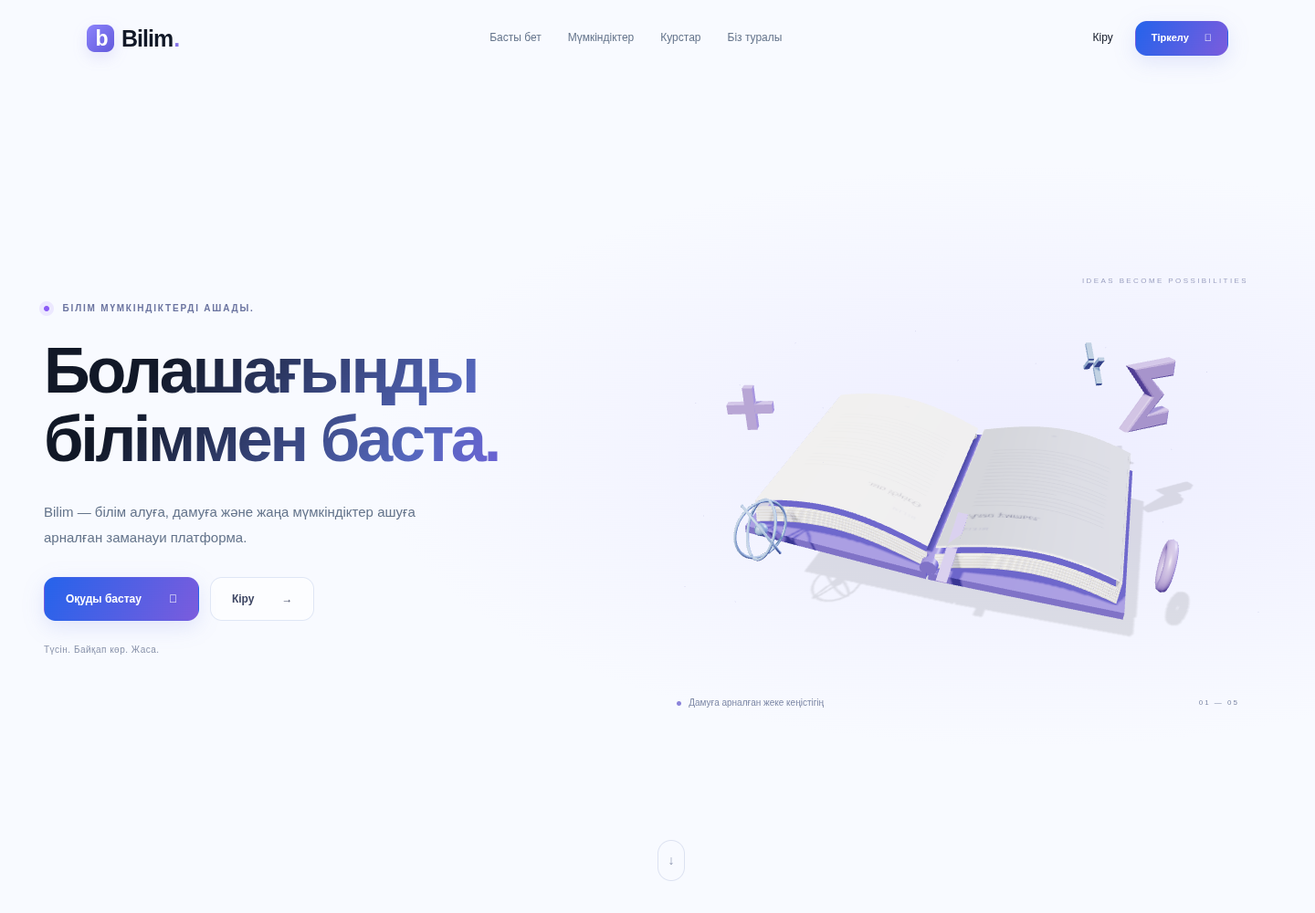
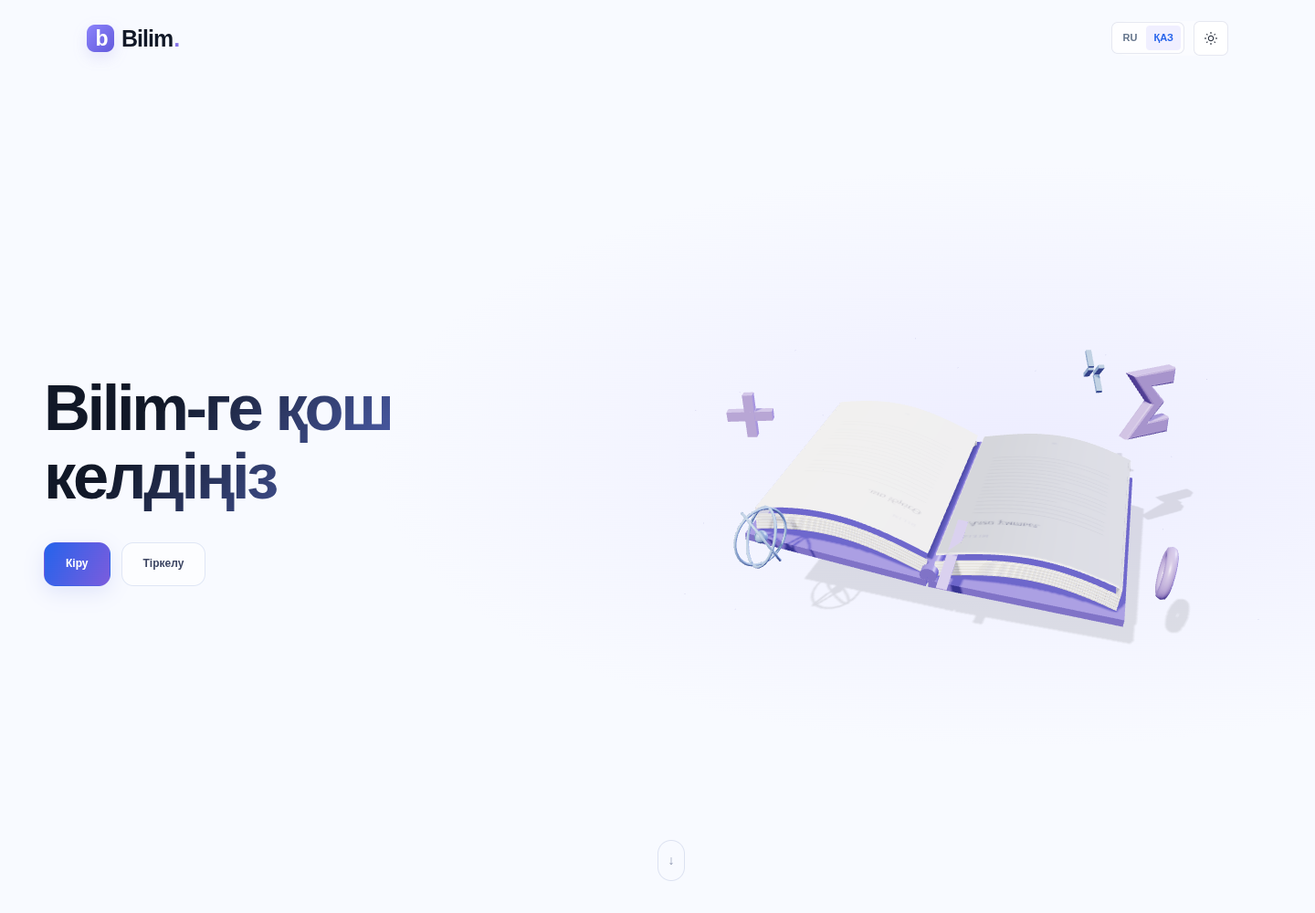
Simplify welcome screen and add persistent top-right light and dark switch

diff --git a/frontend/index.html b/frontend/index.html
@@ -1,13 +1,13 @@
 <!doctype html>
 <html lang="kk"><head><meta charset="UTF-8"><meta name="viewport" content="width=device-width, initial-scale=1"><meta name="theme-color" content="#F8FAFF"><meta name="description" content="Bilim — білім алуға, дамуға және жаңа мүмкіндіктер ашуға арналған заманауи платформа."><title>Bilim — Білімге жаңа көзқарас</title><link rel="icon" href="./assets/favicon.svg" type="image/svg+xml"><script src="./assets/preferences.js"></script><script>try{if(!localStorage.getItem('bilim-language'))document.documentElement.lang='kk';}catch{document.documentElement.lang='kk';}</script><link rel="stylesheet" href="./assets/styles.css"><link rel="stylesheet" href="./assets/login.css"><link rel="stylesheet" href="./assets/landing.css"></head>
 <body class="bilim-auth landing-page"><a class="skip-link" href="#main">Перейти к содержимому</a>
-<header class="site-header" data-localize><a class="brand" href="#home" aria-label="Bilim"><span class="logo">b</span>Bilim<span class="brand-period">.</span></a><button class="menu-toggle" aria-expanded="false" aria-controls="site-navigation">Меню <span aria-hidden="true">☰</span></button><nav id="site-navigation" aria-label="Bilim"><a href="#home">Главная</a><a href="#features">Возможности</a><a href="#courses">Курсы</a><a href="#about">О нас</a></nav><div class="nav-actions"><a href="#auth" data-auth="login">Войти</a><a class="action primary" href="#auth" data-auth="register">Регистрация <span aria-hidden="true">↗</span></a></div></header>
+<header class="site-header"><a class="brand" href="#home" aria-label="Bilim"><span class="logo">b</span>Bilim<span class="brand-period">.</span></a><div class="header-settings" data-preferences></div></header>
 <main id="main">
 <div id="landing-content" data-localize>
-<section class="hero section" id="home"><div class="hero-copy"><p class="kicker"><span></span> Знания открывают возможности.</p><h1>Начни своё будущее с знаний.</h1><p class="hero-subtitle">Bilim — современная платформа для обучения, развития и открытия новых возможностей.</p><div class="hero-actions"><a href="#auth" class="action primary" data-auth="register">Начать обучение <span aria-hidden="true">↗</span></a><a href="#auth" class="action secondary" data-auth="login">Войти <span aria-hidden="true">→</span></a></div><p class="hero-small">Понимай. Пробуй. Создавай.</p></div><div class="hero-art"><div class="orbit-label label-top">IDEAS BECOME POSSIBILITIES</div><div class="scene-wrap" id="book-scene" aria-hidden="true"><div class="scene-fallback"><svg viewBox="0 0 440 300" aria-hidden="true"><defs><linearGradient id="cover"><stop stop-color="#2563eb"/><stop offset="1" stop-color="#8b5cf6"/></linearGradient></defs><ellipse cx="220" cy="252" rx="150" ry="14" fill="#c8cdea" opacity=".4"/><path d="M40 90Q130 55 220 100Q310 55 400 90L400 238Q310 208 220 248Q130 208 40 238Z" fill="url(#cover)"/><path d="M51 78Q137 55 220 103Q303 55 389 78L389 223Q300 199 220 237Q140 199 51 223Z" fill="#fffdf8" stroke="#dddcea"/><path d="M220 104V237M75 114Q140 98 196 126M75 141Q140 125 196 153M75 168Q140 152 196 180M244 126Q307 98 365 114M244 153Q307 125 365 141M244 180Q307 152 365 168" fill="none" stroke="#c9c9dc" stroke-width="3"/></svg></div></div><div class="art-caption"><span class="live-dot"></span> Твоё пространство для роста <span>01 — 05</span></div></div><a class="scroll-cue" href="#features" aria-label="Возможности">↓</a></section>
-<section class="section platform-section" id="features"><div class="section-intro reveal"><p class="kicker">01 / Возможности</p><h2>Всё для обучения — в одном месте.</h2><p>Теория, практика и обратная связь помогают двигаться вперёд в своём темпе.</p></div><div class="platform-stage reveal"><div class="preview-panel"><div class="preview-top"><span class="preview-logo">b.</span><span>Моё обучение</span><span class="preview-dots" aria-hidden="true">•••</span></div><div class="preview-body"><aside aria-hidden="true"><span class="preview-selected">▦</span><span>▤</span><span>✓</span><span>◷</span></aside><div class="preview-content"><p class="kicker">BILIM / WORKSPACE</p><h3>Продолжай открывать новое</h3><div class="preview-stats"><div><span>Онлайн-курсы</span><strong>↗</strong></div><div><span>Задания</span><strong>✓</strong></div><div><span>Тесты</span><strong>◎</strong></div></div><div class="preview-progress"><div><h4>Пример учебного прогресса</h4><span>Прогресс</span></div><svg viewBox="0 0 500 100" role="img" aria-label="Пример учебного прогресса"><path d="M0 90H500M0 50H500M0 10H500" stroke="#e6eaf6"/><path d="M0 85C65 85 65 65 125 65S190 72 250 42S320 55 375 25S450 35 500 5" fill="none" stroke="#8376e9" stroke-width="3"/></svg></div><p class="preview-disclaimer">Иллюстрация интерфейса · не реальные данные</p></div></div></div><div class="floating-preview achievement"><span aria-hidden="true">✧</span><div><strong>Достижения</strong><p>Твой следующий шаг</p></div></div><div class="floating-preview assignment"><span aria-hidden="true">{ }</span><div><strong>Практика программирования</strong><p>Понимай. Пробуй. Создавай.</p></div></div></div></section>
-<section class="section journey-section" id="journey"><div class="section-intro reveal"><p class="kicker">02 / Твой следующий шаг</p><h2>Три шага к новым возможностям.</h2></div><div class="journey-grid"><article class="journey-card reveal"><span class="step-number">01</span><div class="journey-object" data-object="0" aria-hidden="true"><span>◎</span></div><h3>Учись</h3><p>Изучай материалы и разбирай сложное по шагам.</p></article><article class="journey-card reveal"><span class="step-number">02</span><div class="journey-object" data-object="1" aria-hidden="true"><span>◇</span></div><h3>Применяй</h3><p>Закрепляй знания в заданиях и тестах.</p></article><article class="journey-card reveal"><span class="step-number">03</span><div class="journey-object" data-object="2" aria-hidden="true"><span>✦</span></div><h3>Достигай</h3><p>Следи за прогрессом и получай обратную связь.</p></article></div></section><section class="section courses-section" id="courses"><div class="section-intro reveal"><p class="kicker">03 / Направления обучения</p><h2>От интереса — к навыкам.</h2><p>Направления из учебной программы Bilim. Доступные материалы появятся в вашем кабинете.</p></div><div class="course-grid"><a class="course-card reveal" href="#auth" data-auth="register" data-auth-role="student"><div class="course-icon" aria-hidden="true">{ }</div><span class="course-number">01 / BILIM</span><h3>Программирование</h3><p>Классы, объекты и принципы ООП.</p><span class="course-arrow" aria-hidden="true">↗</span></a><a class="course-card reveal" href="#auth" data-auth="register" data-auth-role="student"><div class="course-icon" aria-hidden="true">⌘</div><span class="course-number">02 / BILIM</span><h3>Разработка приложений</h3><p>От идеи до работающего решения.</p><span class="course-arrow" aria-hidden="true">↗</span></a><a class="course-card reveal" href="#auth" data-auth="register" data-auth-role="student"><div class="course-icon" aria-hidden="true">▤</div><span class="course-number">03 / BILIM</span><h3>Базы данных</h3><p>Структура, запросы и работа с данными.</p><span class="course-arrow" aria-hidden="true">↗</span></a></div></section><section class="section paths-section" id="paths"><div class="section-intro reveal"><p class="kicker">04 / Выбери свой путь.</p><h2>Пространство для тех, кто учится. И тех, кто вдохновляет.</h2></div><div class="path-grid"><article class="path-card student-path reveal"><p class="kicker">Для студента</p><div class="path-art" data-path-art="student" aria-hidden="true"><span>⌑</span></div><h3>Открывай больше каждый день.</h3><p>Курсы, задания, тесты и отслеживание прогресса.</p><a href="#auth" class="action primary" data-auth="register" data-auth-role="student">Стать студентом <span aria-hidden="true">↗</span></a></article><article class="path-card teacher-path reveal"><p class="kicker">Для учителя</p><div class="path-art" data-path-art="teacher" aria-hidden="true"><span>▦</span></div><h3>Делись знаниями. Вдохновляй.</h3><p>Управление материалами, заданиями и прогрессом студентов.</p><a href="#auth" class="action secondary" data-auth="register" data-auth-role="teacher">Стать учителем <span aria-hidden="true">↗</span></a><small>После одобрения администратора</small></article></div></section><section class="section about-section reveal" id="about"><p class="kicker">BILIM / О нас</p><h2>Обучение с вниманием к тебе.</h2><p>Bilim объединяет студентов и преподавателей: изучайте материалы, практикуйтесь и развивайтесь вместе.</p></section></div>
-<section class="section auth-section" id="auth"><div class="auth-copy" data-localize><p class="kicker">05 / Твой следующий шаг</p><h2>Твой новый этап начинается здесь.</h2><p>Войди в свой кабинет или создай аккаунт, чтобы начать.</p><div class="auth-decoration" aria-hidden="true">✦</div></div><div class="login-main"><div class="login-settings" data-preferences></div><div class="login-box"><div class="form-emblem" aria-hidden="true">b<span>•</span></div><div id="auth-content"><p role="status">Кіру формасы жүктелуде…</p></div><div id="startup-notice" role="status" hidden></div><noscript><p>Кіру үшін JavaScript қосыңыз. / Включите JavaScript для входа.</p></noscript><div class="demo" data-localize><div class="demo-heading"><span></span><p>Демонстрационные аккаунты</p><span></span></div><div class="row wrap"><button class="btn small" data-demo="student">Студент ↗</button><button class="btn small" data-demo="teacher">Учитель ↗</button><button class="btn small" data-demo="admin">Админ ↗</button></div><p class="demo-hint">Кнопка заполняет данные. Нажмите «Войти», чтобы продолжить.</p></div><div class="secure-note" data-localize>Ваши данные защищены</div></div></div></section>
-</main><footer class="site-footer" data-localize><a class="brand" href="#home">Bilim.</a><p>Знания открывают возможности.</p><span>© Bilim 2026</span><a href="#home">К началу страницы ↑</a></footer>
+<section class="hero section" id="home"><div class="hero-copy"><h1>Добро пожаловать в Bilim</h1><div class="hero-actions"><a href="#auth" class="action primary" data-auth="login">Войти</a><a href="#auth" class="action secondary" data-auth="register">Регистрация</a></div></div><div class="hero-art"><div class="scene-wrap" id="book-scene" aria-hidden="true"><div class="scene-fallback"><svg viewBox="0 0 440 300" aria-hidden="true"><defs><linearGradient id="cover"><stop stop-color="#2563eb"/><stop offset="1" stop-color="#8b5cf6"/></linearGradient></defs><ellipse cx="220" cy="252" rx="150" ry="14" fill="#c8cdea" opacity=".4"/><path d="M40 90Q130 55 220 100Q310 55 400 90L400 238Q310 208 220 248Q130 208 40 238Z" fill="url(#cover)"/><path d="M51 78Q137 55 220 103Q303 55 389 78L389 223Q300 199 220 237Q140 199 51 223Z" fill="#fffdf8" stroke="#dddcea"/><path d="M220 104V237M75 114Q140 98 196 126M75 141Q140 125 196 153M75 168Q140 152 196 180M244 126Q307 98 365 114M244 153Q307 125 365 141M244 180Q307 152 365 168" fill="none" stroke="#c9c9dc" stroke-width="3"/></svg></div></div></div><a class="scroll-cue" href="#features" aria-label="Возможности">↓</a></section>
+<section class="section platform-section" id="features"><div class="section-intro reveal"><h2>Всё для обучения — в одном месте.</h2><p>Теория, практика и обратная связь помогают двигаться вперёд в своём темпе.</p></div><div class="platform-stage reveal"><div class="preview-panel"><div class="preview-top"><span class="preview-logo">b.</span><span>Моё обучение</span><span class="preview-dots" aria-hidden="true">•••</span></div><div class="preview-body"><aside aria-hidden="true"><span class="preview-selected">▦</span><span>▤</span><span>✓</span><span>◷</span></aside><div class="preview-content"><h3>Продолжай открывать новое</h3><div class="preview-stats"><div><span>Онлайн-курсы</span><strong>↗</strong></div><div><span>Задания</span><strong>✓</strong></div><div><span>Тесты</span><strong>◎</strong></div></div><div class="preview-progress"><div><h4>Пример учебного прогресса</h4><span>Прогресс</span></div><svg viewBox="0 0 500 100" role="img" aria-label="Пример учебного прогресса"><path d="M0 90H500M0 50H500M0 10H500" stroke="#e6eaf6"/><path d="M0 85C65 85 65 65 125 65S190 72 250 42S320 55 375 25S450 35 500 5" fill="none" stroke="#8376e9" stroke-width="3"/></svg></div><p class="preview-disclaimer">Иллюстрация интерфейса · не реальные данные</p></div></div></div><div class="floating-preview achievement"><span aria-hidden="true">✧</span><div><strong>Достижения</strong><p>Твой следующий шаг</p></div></div><div class="floating-preview assignment"><span aria-hidden="true">{ }</span><div><strong>Практика программирования</strong><p>Понимай. Пробуй. Создавай.</p></div></div></div></section>
+<section class="section journey-section" id="journey"><div class="section-intro reveal"><h2>Три шага к новым возможностям.</h2></div><div class="journey-grid"><article class="journey-card reveal"><div class="journey-object" data-object="0" aria-hidden="true"><span>◎</span></div><h3>Учись</h3><p>Изучай материалы и разбирай сложное по шагам.</p></article><article class="journey-card reveal"><div class="journey-object" data-object="1" aria-hidden="true"><span>◇</span></div><h3>Применяй</h3><p>Закрепляй знания в заданиях и тестах.</p></article><article class="journey-card reveal"><div class="journey-object" data-object="2" aria-hidden="true"><span>✦</span></div><h3>Достигай</h3><p>Следи за прогрессом и получай обратную связь.</p></article></div></section><section class="section courses-section" id="courses"><div class="section-intro reveal"><h2>От интереса — к навыкам.</h2><p>Направления из учебной программы Bilim. Доступные материалы появятся в вашем кабинете.</p></div><div class="course-grid"><a class="course-card reveal" href="#auth" data-auth="register" data-auth-role="student"><div class="course-icon" aria-hidden="true">{ }</div><h3>Программирование</h3><p>Классы, объекты и принципы ООП.</p><span class="course-arrow" aria-hidden="true">↗</span></a><a class="course-card reveal" href="#auth" data-auth="register" data-auth-role="student"><div class="course-icon" aria-hidden="true">⌘</div><h3>Разработка приложений</h3><p>От идеи до работающего решения.</p><span class="course-arrow" aria-hidden="true">↗</span></a><a class="course-card reveal" href="#auth" data-auth="register" data-auth-role="student"><div class="course-icon" aria-hidden="true">▤</div><h3>Базы данных</h3><p>Структура, запросы и работа с данными.</p><span class="course-arrow" aria-hidden="true">↗</span></a></div></section><section class="section paths-section" id="paths"><div class="section-intro reveal"><h2>Пространство для тех, кто учится. И тех, кто вдохновляет.</h2></div><div class="path-grid"><article class="path-card student-path reveal"><p class="kicker">Для студента</p><div class="path-art" data-path-art="student" aria-hidden="true"><span>⌑</span></div><h3>Открывай больше каждый день.</h3><p>Курсы, задания, тесты и отслеживание прогресса.</p><a href="#auth" class="action primary" data-auth="register" data-auth-role="student">Стать студентом <span aria-hidden="true">↗</span></a></article><article class="path-card teacher-path reveal"><p class="kicker">Для учителя</p><div class="path-art" data-path-art="teacher" aria-hidden="true"><span>▦</span></div><h3>Делись знаниями. Вдохновляй.</h3><p>Управление материалами, заданиями и прогрессом студентов.</p><a href="#auth" class="action secondary" data-auth="register" data-auth-role="teacher">Стать учителем <span aria-hidden="true">↗</span></a><small>После одобрения администратора</small></article></div></section><section class="section about-section reveal" id="about"><h2>Обучение с вниманием к тебе.</h2><p>Bilim объединяет студентов и преподавателей: изучайте материалы, практикуйтесь и развивайтесь вместе.</p></section></div>
+<section class="section auth-section" id="auth"><div class="auth-copy" data-localize><h2>Твой новый этап начинается здесь.</h2><p>Войди в свой кабинет или создай аккаунт, чтобы начать.</p><div class="auth-decoration" aria-hidden="true">✦</div></div><div class="login-main"><div class="login-box"><div class="form-emblem" aria-hidden="true">b<span>•</span></div><div id="auth-content"><p role="status">Кіру формасы жүктелуде…</p></div><div id="startup-notice" role="status" hidden></div><noscript><p>Кіру үшін JavaScript қосыңыз. / Включите JavaScript для входа.</p></noscript><div class="demo" data-localize><div class="demo-heading"><span></span><p>Демонстрационные аккаунты</p><span></span></div><div class="row wrap"><button class="btn small" data-demo="student">Студент ↗</button><button class="btn small" data-demo="teacher">Учитель ↗</button><button class="btn small" data-demo="admin">Админ ↗</button></div><p class="demo-hint">Кнопка заполняет данные. Нажмите «Войти», чтобы продолжить.</p></div></div></div></section>
+</main><footer class="site-footer" data-localize><a class="brand" href="#home">Bilim.</a><span>© Bilim 2026</span><a href="#home">К началу страницы ↑</a></footer>
 <script>if(location.protocol==='file:'){const n=document.getElementById('startup-notice');n.hidden=false;n.textContent='VS Code → frontend/index.html → Open with Live Server. Немесе / Или: python -m http.server 5500 --directory frontend → http://localhost:5500. file:// JavaScript модульдерін бұғаттайды.';document.getElementById('auth-content').textContent='Бетті жергілікті сервер арқылы ашыңыз / Откройте страницу через локальный сервер.';}</script>
 <script src="./assets/vendor/gsap.min.js" defer></script><script src="./assets/vendor/ScrollTrigger.min.js" defer></script><script type="module" src="./assets/login.js"></script><script type="module" src="./assets/animations.js"></script><script type="module" src="./assets/scene3d.js"></script></body></html>

diff --git a/frontend/assets/landing.css b/frontend/assets/landing.css
@@ -6,3 +6,23 @@ html[data-theme=dark] .landing-page{background:#141b2a;--ink:#e8ecf7;--muted:#a5
 @media(max-width:800px){.site-header{height:72px;padding:0 22px}.site-header nav{display:none;position:absolute;left:16px;right:16px;top:76px;flex-direction:column;background:#fffffff5;padding:25px;border:1px solid #e6eaf5;border-radius:18px;box-shadow:0 15px 40px #425eac1a}.site-header.menu-open nav{display:flex}.menu-toggle{display:block;border:0;background:transparent;color:#64748b;font-size:11px;margin-left:auto}.menu-toggle span{margin-left:6px}.nav-actions>a:first-child{display:none}.hero{padding-top:130px;min-height:900px;grid-template-columns:1fr 1fr}.landing-page .hero h1{font-size:46px}.hero-actions{flex-wrap:wrap}.landing-page .hero .scene-wrap{height:340px}.hero-art{margin-left:-30px}.orbit-label{font-size:6px;right:10px}.art-caption{margin:0;font-size:8px}.art-caption>span:last-child{display:none}.hero-subtitle{max-width:300px}.course-grid{gap:12px}.course-card{padding:20px}.landing-page .course-card h3{font-size:17px}.journey-grid{gap:18px}.auth-section{grid-template-columns:1fr;gap:30px}.auth-copy{max-width:550px}.auth-decoration{display:none}.landing-page .auth-section .login-main{width:100%;max-width:460px;margin:0 auto}.landing-page .auth-section .login-box{max-width:none}.floating-preview{padding:15px}.site-footer{flex-wrap:wrap;gap:20px}.site-footer p{display:none}html[data-theme=dark] .site-header nav{background:#242d40}}
 @media(max-width:600px){.section{padding:70px 22px}.hero{min-height:auto;display:flex;flex-direction:column;align-items:stretch;padding-top:125px;padding-bottom:65px;gap:10px}.hero-copy{text-align:center}.kicker{font-size:8px;letter-spacing:1.5px}.landing-page .hero h1{font-size:46px;letter-spacing:-2.1px;max-width:380px;margin:auto}.hero-subtitle{margin:22px auto 0;max-width:340px;font-size:13px}.hero-actions{justify-content:center;margin-top:24px;gap:10px}.hero .action{font-size:11px;padding:11px 17px;gap:20px;min-height:44px}.hero-small{font-size:9px;margin-top:18px}.hero-art{margin:0 -12px}.landing-page .hero .scene-wrap{height:300px}.orbit-label{top:5px;right:15px;font-size:6px}.art-caption{margin:0 15px;justify-content:center;font-size:9px}.scroll-cue{display:none}.section-intro{margin-bottom:35px}.landing-page .section h2{font-size:32px;letter-spacing:-1.3px}.section-intro>p:last-child{font-size:12px}.platform-stage{padding:0;margin-top:50px}.preview-top{padding:13px}.preview-body aside{padding:22px 9px;font-size:14px}.preview-content{padding:20px 12px}.landing-page .preview-content h3{font-size:16px}.preview-stats{gap:7px;margin-top:17px}.preview-stats>div{padding:10px 7px}.preview-stats span{font-size:7px}.preview-stats strong{font-size:18px}.preview-progress h4{font-size:8px}.preview-progress svg{height:70px}.preview-disclaimer{font-size:7px}.floating-preview{gap:8px;padding:12px;border-radius:12px}.floating-preview strong{font-size:9px}.floating-preview p{font-size:7px}.floating-preview>span{font-size:20px}.achievement{top:-30px;right:-3px}.assignment{bottom:-26px;left:5px}.journey-grid{grid-template-columns:1fr}.journey-card{padding:20px 0 25px;display:grid;grid-template-columns:90px 1fr;column-gap:25px}.step-number{grid-column:2}.journey-object{height:115px;grid-row:1/4;grid-column:1}.journey-card h3{font-size:22px;margin:10px 0}.journey-card p{font-size:12px;max-width:none}.journey-object>span{font-size:75px}.course-grid,.path-grid{grid-template-columns:1fr;gap:16px}.course-card{padding:25px}.course-icon{margin-bottom:20px}.landing-page .course-card h3{font-size:22px}.course-card p{margin-bottom:10px}.path-card{padding:28px}.path-art{height:155px}.landing-page .path-card h3{font-size:26px}.path-card p{max-width:none}.about-section{padding-top:55px;padding-bottom:70px}.about-section>p:last-child{font-size:13px}.auth-copy>p:not(.kicker){font-size:12px;margin-top:18px}.landing-page .auth-section .login-settings{top:0;bottom:auto;right:0}.landing-page .auth-section .login-main{padding-top:58px}.landing-page .auth-section .login-box{padding:30px 24px}.landing-page .form-emblem{display:none}.site-footer{padding:28px 22px;font-size:9px;gap:15px}.site-footer>a:last-child{width:100%}.site-header .brand{font-size:22px!important}.nav-actions .action{padding:8px 12px;font-size:10px;gap:7px}.site-header{gap:15px}.nav-actions{gap:0}.menu-toggle{font-size:10px}}
 @media(prefers-reduced-motion:reduce){html{scroll-behavior:auto}.landing-page *{animation:none!important;transition:none!important}}
+/* Simplified welcome screen and persistent light/dark control. */
+.site-header .header-settings{margin-left:auto;position:static}.header-settings .preferences{gap:10px}.header-settings .theme-switch{min-width:38px;min-height:38px;justify-content:center}.header-settings .language-switch{background:#ffffffa8}.landing-page .hero-actions{margin-top:34px}.landing-page .hero h1{max-width:650px}.landing-page .auth-section .login-main{padding-top:0}.journey-card .journey-object{grid-row:1/3}.site-header .theme-switch span{display:none}
+html[data-theme=dark] .landing-page{background:#0c0e13;--ink:#f2f4fb;--muted:#b0b8c9;color:var(--ink)}
+html[data-theme=dark] .landing-page .site-header.scrolled{background:#0c0e13ed;border-color:#ffffff12}
+html[data-theme=dark] .landing-page .hero{background:radial-gradient(ellipse at 80% 50%,#29213b66,transparent 55%)}
+html[data-theme=dark] .landing-page .hero h1{background:linear-gradient(130deg,#fff 15%,#c9c3f8);background-clip:text}
+html[data-theme=dark] .landing-page .auth-section{background:radial-gradient(ellipse at 10% 50%,#20203b77,transparent 70%),#101218;border-color:#292c39}
+html[data-theme=dark] .landing-page .preview-panel,html[data-theme=dark] .landing-page .floating-preview,html[data-theme=dark] .landing-page .preview-stats>div,html[data-theme=dark] .landing-page .course-card{background:#171a23;border-color:#2b2e3c}
+html[data-theme=dark] .landing-page .path-card{background:linear-gradient(135deg,#20202e,#13161e);border-color:#30303e}
+html[data-theme=dark] .landing-page .course-icon{background:linear-gradient(135deg,#2b2544,#1f293c);border-color:#37364c;color:#c2b4f0}
+html[data-theme=dark] .landing-page .login-box{background:linear-gradient(135deg,#1c1d29ed,#141720e6);border-color:#ffffff17;box-shadow:0 25px 65px #0003}
+html[data-theme=dark] .landing-page .field label{color:#c0c6d7}html[data-theme=dark] .landing-page .input{background:#10131c;color:#f2f4fb;border-color:#3b4051}
+html[data-theme=dark] .landing-page .input::placeholder{color:#8f99b0}html[data-theme=dark] .landing-page .role-tabs{background:#0e111a;border-color:#2c3041}
+html[data-theme=dark] .landing-page .role-tabs button{color:#a7b0c5}html[data-theme=dark] .landing-page .role-tabs button.active{background:#302d47;color:#e5dfff}
+html[data-theme=dark] .landing-page .action.secondary{background:#1c202b;color:#e4e8f5;border-color:#393c4e}
+html[data-theme=dark] .landing-page .header-settings .language-switch,html[data-theme=dark] .landing-page .header-settings .theme-switch{background:#191c25;border-color:#3b3d4b;color:#e4e8f5}
+html[data-theme=dark] .landing-page .header-settings .language-switch button[aria-pressed=true]{background:#322c4c;color:#e3d7ff}
+html[data-theme=dark] .landing-page .journey-card,html[data-theme=dark] .landing-page .preview-top,html[data-theme=dark] .landing-page .preview-body aside,html[data-theme=dark] .landing-page .site-footer{border-color:#2b2e3c}
+html[data-theme=dark] .landing-page .demo-heading>span{background:#353849}html[data-theme=dark] .landing-page .text-button{color:#b8a8ff}
+@media(max-width:600px){.site-header{padding:0 20px}.header-settings .preferences{gap:7px}.header-settings .language-switch button{font-size:10px;padding:5px 6px}.landing-page .hero h1{font-size:45px}.landing-page .hero-actions{margin-top:25px}.landing-page .auth-section .login-main{padding-top:0}.journey-card .journey-object{grid-row:1/3}}

diff --git a/frontend/assets/animations.js b/frontend/assets/animations.js
@@ -1,11 +1,5 @@
 const header=document.querySelector('.site-header');
-const menu=document.querySelector('.menu-toggle');
 const motion=matchMedia('(prefers-reduced-motion:reduce)');
-function closeMenu(){header.classList.remove('menu-open');menu.setAttribute('aria-expanded','false');}
-menu.addEventListener('click',()=>{const open=menu.getAttribute('aria-expanded')!=='true';menu.setAttribute('aria-expanded',String(open));header.classList.toggle('menu-open',open);});
-header.querySelectorAll('a').forEach(a=>a.addEventListener('click',closeMenu));
-document.addEventListener('keydown',e=>{if(e.key==='Escape'&&header.classList.contains('menu-open')){closeMenu();menu.focus();}});
-const breakpoint=matchMedia('(min-width:801px)');breakpoint.addEventListener('change',closeMenu);
 function headerScroll(){header.classList.toggle('scrolled',scrollY>20);}window.addEventListener('scroll',headerScroll,{passive:true});headerScroll();
 let animationContext;let ownedTriggers=[];
 function animate(){
@@ -32,4 +26,4 @@ for(const card of document.querySelectorAll('.path-card')){
  card.addEventListener('pointermove',e=>{if(motion.matches||!canHover.matches)return;const b=card.getBoundingClientRect();card.querySelector('.path-art').style.transform=`perspective(1000px) rotateX(${-(e.clientY-b.top-b.height/2)/b.height*5}deg) rotateY(${(e.clientX-b.left-b.width/2)/b.width*5}deg)`;});
  card.addEventListener('pointerleave',()=>card.querySelector('.path-art').style.removeProperty('transform'));
 }
-window.addEventListener('pagehide',event=>{if(event.persisted)return;ownedTriggers.forEach(t=>t.kill());animationContext?.revert();window.removeEventListener('scroll',headerScroll);motion.removeEventListener('change',animate);breakpoint.removeEventListener('change',closeMenu);});
+window.addEventListener('pagehide',event=>{if(event.persisted)return;ownedTriggers.forEach(t=>t.kill());animationContext?.revert();window.removeEventListener('scroll',headerScroll);motion.removeEventListener('change',animate);});

diff --git a/frontend/assets/locales.js b/frontend/assets/locales.js
@@ -447,3 +447,5 @@ Object.assign(kk, {
 });
 
 Object.assign(kk, {"Регистрация":"Тіркелу","Firebase не настроен: вставьте ключи проекта в frontend/assets/firebase-config.js.":"Firebase бапталмаған: жоба параметрлерін frontend/assets/firebase-config.js файлына енгізіңіз."});
+
+Object.assign(kk, {"Добро пожаловать в Bilim":"Bilim-ге қош келдіңіз"});

diff --git a/docs/QA-PREMIUM.md b/docs/QA-PREMIUM.md
@@ -6,7 +6,7 @@
 - `node --check`: изменённые JavaScript-модули — без синтаксических ошибок.
 - Настоящая страница без тестовых подмен: форма рендерится при исходных `PASTE_...`; показывает ошибку конфигурации; WebGL-книга инициализируется.
 - 375 / 768 / 1024 / 1440 px: нет горизонтального переполнения.
-- Меню мобильной навигации открывается и закрывается после выбора раздела.
+- По запросу пользователя верхнее меню удалено. Переключатель светлой/чёрной темы находится справа в шапке; обе темы и сохранение выбора после перезагрузки проверены.
 - Роль teacher из карточки сохраняется в форме регистрации; admin отсутствует в регистрации.
 - Смена kk/ru сохраняет введённое имя. Статический landing переводится существующим механизмом локализации.
 - ScrollTrigger создаётся, scroll-переходы активны; переключение reduced motion удаляет триггеры.
@@ -19,4 +19,4 @@
 
 В исходном конфиге нет действующих параметров проекта. Создание/вход настоящих пользователей, выход из реальной сессии, фактическое одобрение учителя, Firestore permissions и загрузка данных кабинетов **не проверены**. Backend, правила и кабинеты не менялись; их работоспособность на живом Firebase не заявляется.
 
-Core Web Vitals на реальных устройствах и production-сети не измерялись. Скриншоты в `docs/screenshots` показывают проверенный интерфейс; preview прогресса явно помечен иллюстрацией.
+Core Web Vitals на реальных устройствах и production-сети не измерялись. Актуальные скриншоты главного экрана: `docs/screenshots/desktop.png` и `dark.png`; остальные снимки относятся к предыдущей версии; preview прогресса явно помечен иллюстрацией.
